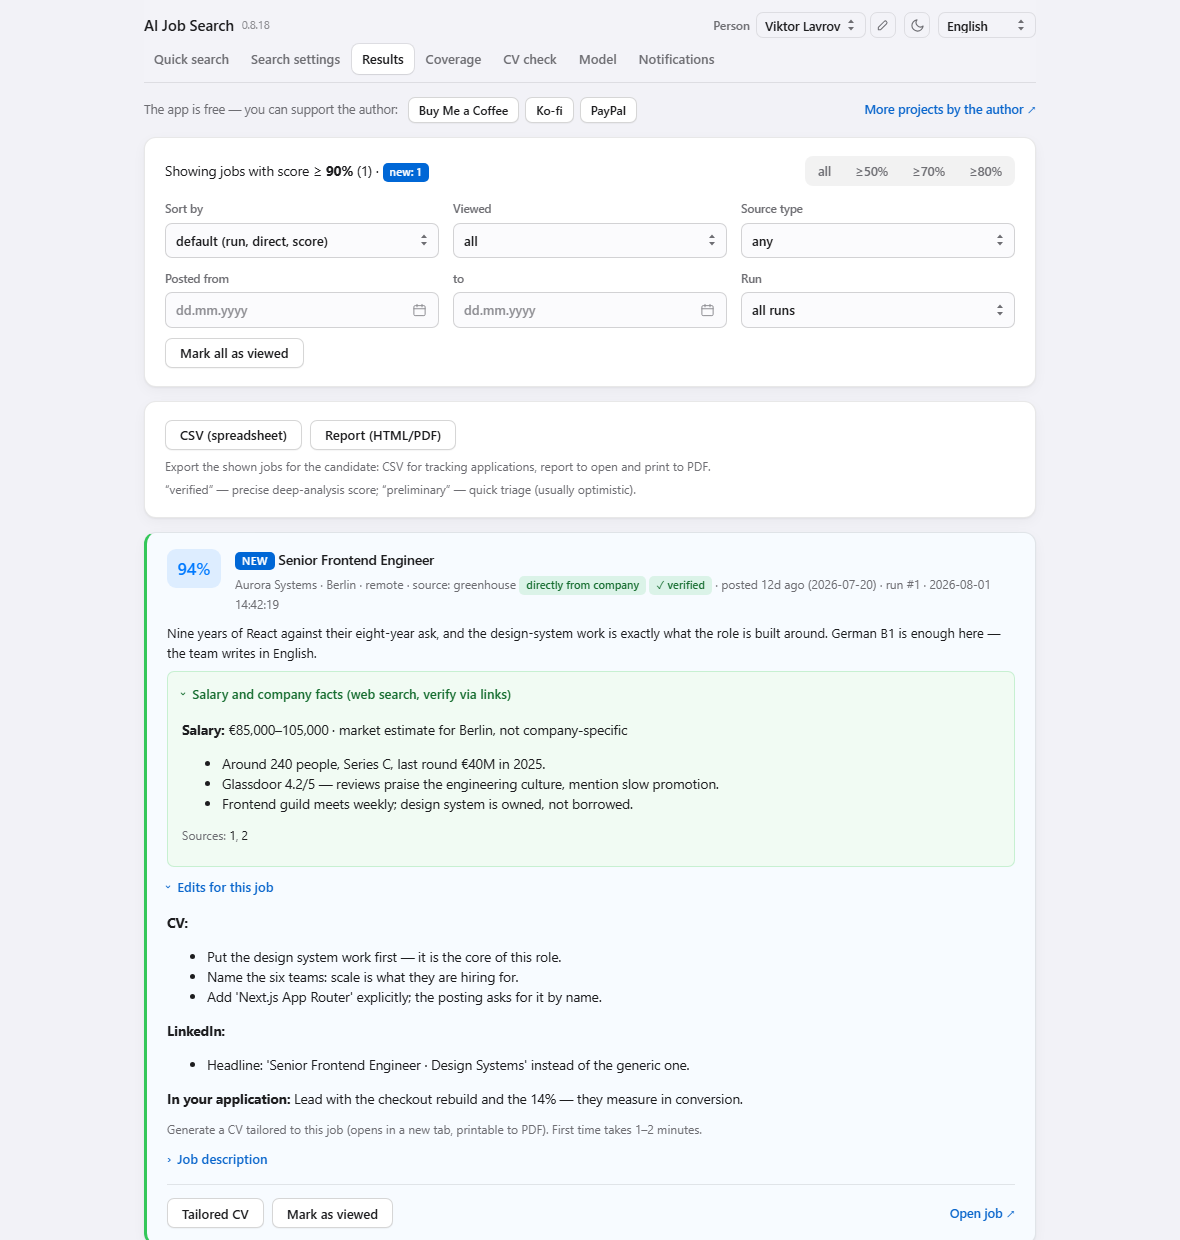
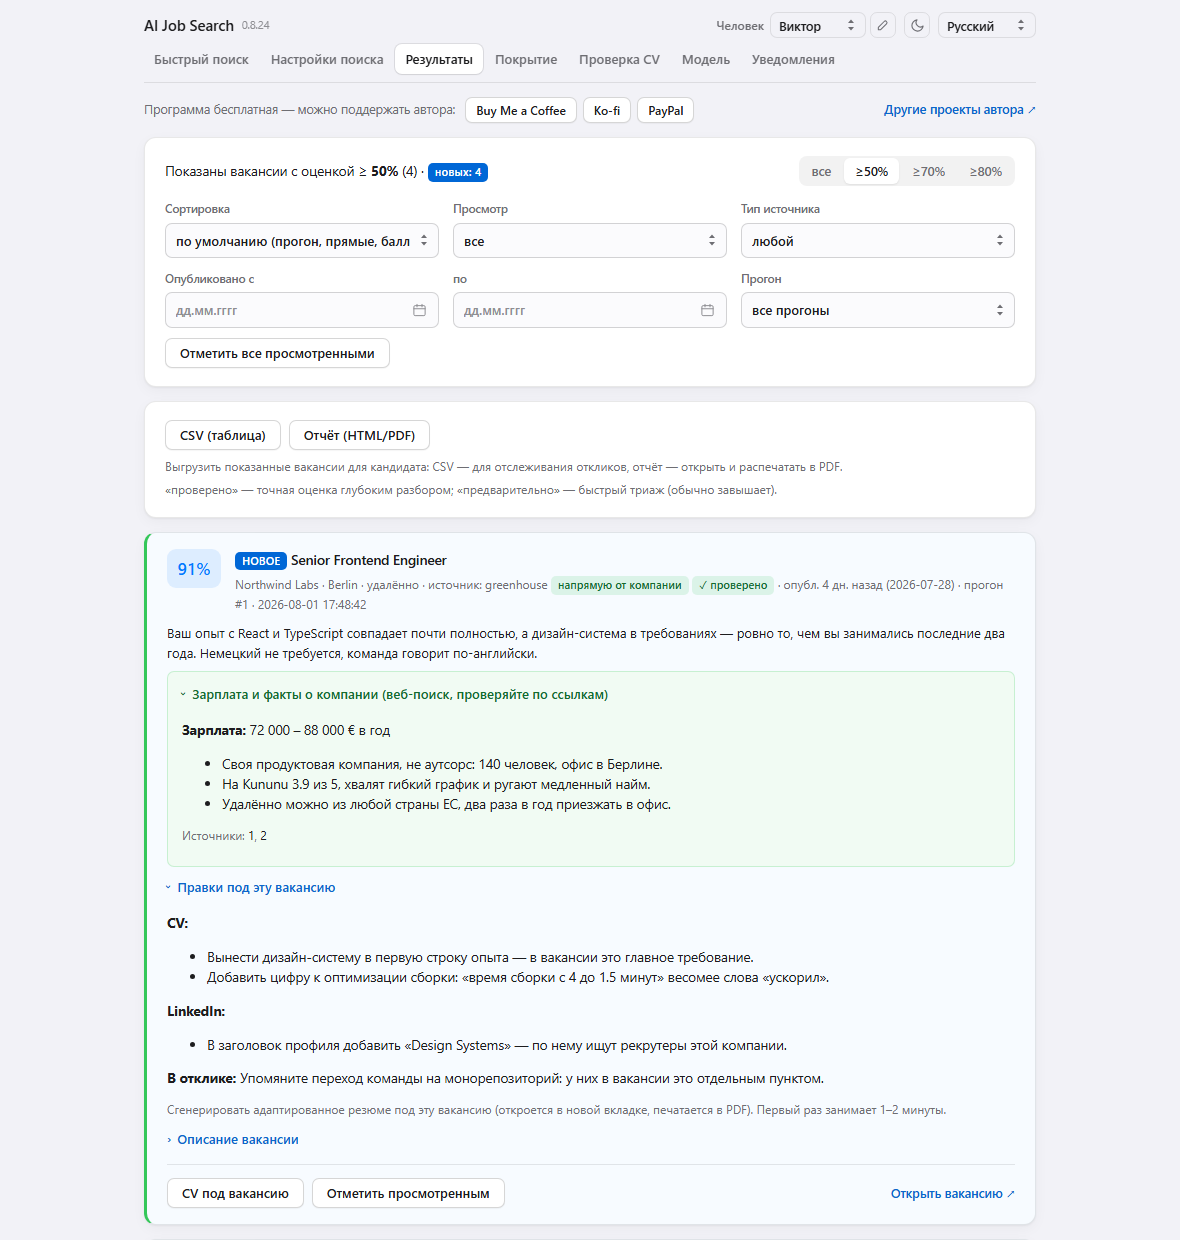
Снимки для сайта заново, и скрипт, чтобы они не устаревали молча
Картинки в docs/img показывали интерфейс, которого больше нет: три
провайдера вместо восьми, быстрый поиск без полей срока, старая шапка.
Обновлялись они последний раз три коммита назад, а онбординг с тех пор
менялся трижды — и заметить это можно было только глазами.

Отсюда tools/shots.py: поднимает программу на подставных данных во
временной папке и снимает четыре страницы в двух темах. Данные выдуманы
целиком — ни настоящих людей, ни компаний, ни вакансий, и настоящий
профиль он не трогает.

Три вещи, которые пришлось решать по дороге:

- Разбор вакансии раскрыт всегда, и на снимке списка он занимал весь
  экран: вместо списка выходила одна карточка. Список снимается в том
  состоянии, в каком программа бывает сразу после быстрого поиска —
  оценки есть, глубокий разбор ещё не прошёл. Разбор — своим снимком.
- Провайдеров восемь, в прежние 860 точек влезало шесть, третий ряд
  обрезался посередине.
- Без VERSION.txt программа зовёт себя «dev», и это стояло в шапке
  каждого снимка. Файл кладётся на время съёмки и убирается после.

В README подтянуты две устаревшие фразы: там было «Claude Code, Cursor
или Ollama» и «три карточки провайдеров».

diff --git a/tools/shots.py b/tools/shots.py
@@ -1,0 +1,271 @@
+"""Снимки для сайта и README.
+
+Скриншоты живут в docs/img и устаревают молча: интерфейс меняется, а на
+странице продукта остаётся прошлогодний. Отсюда скрипт — снять всё заново
+одной командой, а не собирать по одному руками и не забывать половину.
+
+Данные подставные и лежат во временной папке: настоящий профиль трогать нельзя,
+да и показывать чужие вакансии с чужим CV на странице продукта незачем. Каждая
+страница снимается дважды, в светлой теме и в тёмной.
+
+    python tools/shots.py
+
+Нужен Chrome или Edge — они и так есть на любой Windows. Пользуется их же
+безголовым режимом: ставить ради восьми картинок playwright с его полугигабайтом
+браузеров не стоит.
+"""
+import json
+import os
+import shutil
+import socket
+import subprocess
+import sys
+import tempfile
+import time
+import urllib.request
+from pathlib import Path
+
+ROOT = Path(__file__).resolve().parent.parent
+OUT = ROOT / "docs" / "img"
+sys.path.insert(0, str(ROOT))
+
+# Ширина как у прежних снимков: они уже вставлены в README и на страницу, и
+# менять её значило бы переверстать обе.
+WIDTH = 1180
+СТРАНИЦЫ = [
+    # (файл, адрес, высота, есть ли разбор у верхней вакансии)
+    #
+    # Разбор раскрыт всегда — <details open>, и правильно: ради него всё и
+    # затевалось. Но на снимке списка он занимает весь экран, и вместо списка
+    # выходит одна карточка. Поэтому список снимается в том состоянии, в каком
+    # программа бывает сразу после быстрого поиска: оценки есть, глубокий разбор
+    # ещё не прошёл. А разбор — своим снимком и повыше.
+    ("results", "/results", 1120, False),
+    ("advice", "/results", 1240, True),
+    ("quick-search", "/simple", 820, False),
+    # Провайдеров восемь, в 860 влезало шесть — третий ряд обрезался посередине.
+    ("models", "/models", 1330, False),
+]
+
+БРАУЗЕРЫ = [
+    r"C:\Program Files\Google\Chrome\Application\chrome.exe",
+    r"C:\Program Files (x86)\Microsoft\Edge\Application\msedge.exe",
+    r"C:\Program Files (x86)\Google\Chrome\Application\chrome.exe",
+]
+
+
+def браузер() -> str:
+    for path in БРАУЗЕРЫ:
+        if Path(path).exists():
+            return path
+    for name in ("google-chrome", "chromium", "msedge"):
+        found = shutil.which(name)
+        if found:
+            return found
+        raise SystemExit("не нашёлся ни Chrome, ни Edge — снимать нечем")
+
+
+def номер_версии() -> str:
+    """Последний выпущенный тег — то, что человек и увидит, скачав программу."""
+    try:
+        out = subprocess.run(["git", "tag", "--sort=-v:refname"], cwd=str(ROOT),
+                             capture_output=True, text=True, timeout=10)
+        for line in out.stdout.splitlines():
+            if line.startswith("v"):
+                return line[1:].strip()
+    except (OSError, subprocess.SubprocessError):
+        pass
+    return "0.0.0"
+
+
+def свободный_порт() -> int:
+    with socket.socket() as s:
+        s.bind(("127.0.0.1", 0))
+        return s.getsockname()[1]
+
+
+РАЗБОР = json.dumps({
+    "salary_estimate": "72 000 – 88 000 € в год",
+    "company_insights": [
+        "Своя продуктовая компания, не аутсорс: 140 человек, офис в Берлине.",
+        "На Kununu 3.9 из 5, хвалят гибкий график и ругают медленный найм.",
+        "Удалённо можно из любой страны ЕС, два раза в год приезжать в офис.",
+    ],
+    "sources": ["https://www.kununu.com/de/northwind",
+                "https://www.glassdoor.de/northwind"],
+    "cv_changes": [
+        "Вынести дизайн-систему в первую строку опыта — в вакансии это главное требование.",
+        "Добавить цифру к оптимизации сборки: «время сборки с 4 до 1.5 минут» весомее слова «ускорил».",
+    ],
+    "linkedin_changes": [
+        "В заголовок профиля добавить «Design Systems» — по нему ищут рекрутеры этой компании.",
+    ],
+    "cover_hint": "Упомяните переход команды на монорепозиторий: у них в вакансии это отдельным пунктом.",
+}, ensure_ascii=False)
+
+ВАКАНСИИ = [
+    dict(key="a1", title="Senior Frontend Engineer", company="Northwind Labs",
+         location="Berlin · удалённо", url="https://northwind.example/careers/fe-senior",
+         source="greenhouse", is_direct=1, is_agency=0, score=91, verified=1,
+         posted_at="2026-07-28",
+         description="React, TypeScript, дизайн-система, команда из шести человек.",
+         reason="Ваш опыт с React и TypeScript совпадает почти полностью, а дизайн-система "
+                "в требованиях — ровно то, чем вы занимались последние два года. "
+                "Немецкий не требуется, команда говорит по-английски.",
+         advice=""),
+    dict(key="a2", title="Staff Software Engineer, Platform", company="Helios",
+         location="Амстердам · гибрид", url="https://helios.example/jobs/staff-platform",
+         source="lever", is_direct=1, is_agency=0, score=84, verified=1,
+         posted_at="2026-07-26",
+         description="Kubernetes, Go, внутренние платформы для сорока команд.",
+         reason="Совпадает опыт с инфраструктурой и наставничеством. Go в требованиях, "
+                "а у вас он второй язык — это единственное слабое место.", advice=""),
+    dict(key="a3", title="Full-stack Developer (SAP Integration)", company="Vandelay AG",
+         location="Мюнхен · офис", url="https://vandelay.example/karriere/fullstack",
+         source="personio", is_direct=1, is_agency=0, score=76, verified=0,
+         posted_at="2026-07-24",
+         description="SAP PI/PO, Java, REST, интеграция с логистикой.",
+         reason="SAP PI/PO и Java у вас в ключевых навыках. Настораживает требование "
+                "немецкого на уровне B2 — в вашем CV указан A2.", advice=""),
+    dict(key="a4", title="Frontend Engineer", company="Kestrel Studio",
+         location="удалённо, ЕС", url="https://kestrel.example/careers/frontend",
+         source="workable", is_direct=1, is_agency=0, score=72, verified=0,
+         posted_at="2026-07-21",
+         description="Vue 3, Nuxt, небольшие продуктовые команды.",
+         reason="Стек соседний: Vue вместо React. Переучиваться недолго, но в вакансии "
+                "просят именно опыт с Nuxt, а его у вас нет.", advice=""),
+]
+
+CV = """Виктор Лаврентьев — Senior Frontend Engineer
+
+Восемь лет во фронтенде, последние два — дизайн-системы и сборка.
+React, TypeScript, Vite, Storybook. Вёл переход команды из двенадцати
+человек на монорепозиторий, время сборки с четырёх минут до полутора.
+
+Опыт
+2022–2026  Frontend Lead, Orbita — дизайн-система на 60 компонентов,
+           её используют четыре продуктовые команды.
+2019–2022  Senior Frontend Engineer, Meridian — личный кабинет, 300k
+           пользователей в месяц.
+2018–2019  Frontend Developer, Sable — вёрстка и интеграции.
+
+Языки: русский (родной), английский (C1), немецкий (A2).
+"""
+
+
+def заполнить(data: Path) -> None:
+    """Кладёт во временную папку то, что должно быть видно на снимках."""
+    os.environ["AIJS_DATA_DIR"] = str(data)
+    from jobsearch import appstate, config, db, profiles
+
+    # Заполняем профиль по умолчанию, а не заводим новый: сервер приходит без
+    # cookie и показывает именно его. Свежесозданный профиль на снимке был пуст,
+    # а рядом в переключателе стоял чужой — «Ничего с такой оценкой нет».
+    profiles.ensure_migrated()
+    slug = profiles.default_slug()
+    profiles.rename(slug, "Виктор")
+    profiles.set_active(slug)
+    db.init()
+
+    cfg = config.load()
+    cfg["profile"].update(summary="Senior Frontend Engineer, дизайн-системы и сборка",
+                          roles="Frontend Engineer, Frontend Lead",
+                          skills="React, TypeScript, Vite, Storybook, монорепозитории",
+                          seniority="senior", salary="от 75 000 € в год",
+                          work_format="remote", languages="английский C1, немецкий A2")
+    cfg["search"].update(locations="Германия, Нидерланды, удалённо в ЕС", threshold=70)
+    cfg["ui"]["lang"] = "ru"
+    config.save(cfg)
+    config.cv_text_path().write_text(CV, encoding="utf-8")
+    config.cv_meta_path().write_text(
+        json.dumps({"filename": "Лаврентьев CV.pdf", "chars": len(CV)}, ensure_ascii=False),
+        encoding="utf-8")
+
+    run = db.start_run()
+    for job in ВАКАНСИИ:
+        db.save_job(job, run)
+    db.finish_run(run, found=214, fresh=37, matched=len(ВАКАНСИИ), status="ok", log="")
+    appstate.mark_setup_done(cfg["llm"])
+    return slug
+
+
+def поднять(data: Path, port: int):
+    среда = dict(os.environ, AIJS_DATA_DIR=str(data), PYTHONIOENCODING="utf-8")
+    proc = subprocess.Popen(
+        [sys.executable, "-m", "uvicorn", "app:app", "--host", "127.0.0.1",
+         "--port", str(port), "--log-level", "warning"],
+        cwd=str(ROOT), env=среда)
+    for _ in range(60):
+        try:
+            urllib.request.urlopen(f"http://127.0.0.1:{port}/ping", timeout=1).read()
+            return proc
+        except Exception:
+            time.sleep(0.5)
+    proc.terminate()
+    raise SystemExit("приложение не поднялось")
+
+
+def снять(chrome: str, url: str, out: Path, height: int, профиль: Path) -> None:
+    subprocess.run([
+        chrome, "--headless=new", "--disable-gpu", "--hide-scrollbars",
+        f"--user-data-dir={профиль}",
+        f"--window-size={WIDTH},{height}",
+        # Страница дорисовывает себя скриптами; без паузы снимок ловит её
+        # наполовину собранной — с непроявленными карточками и пустой шапкой.
+        "--virtual-time-budget=4000",
+        f"--screenshot={out}", url,
+    ], check=True, capture_output=True)
+
+
+def разбор(есть: bool) -> None:
+    """Включает и убирает глубокий разбор у верхней вакансии.
+
+    Сервер открывает базу заново на каждый запрос, так что менять её отсюда
+    можно и на ходу.
+    """
+    from jobsearch import db
+    with db.conn() as c:
+        c.execute("UPDATE jobs SET advice=? WHERE key='a1'",
+                  (РАЗБОР if есть else "",))
+
+
+def тема(какая: str) -> None:
+    """Тему держит сервер, а не браузер: безголовый Chrome каждый раз приходит с
+    чистым профилем, и переключатель в окне ему не помог бы. Пишется в файл
+    состояния, который сервер перечитывает на каждой отрисовке."""
+    from jobsearch import appstate
+    appstate.set_theme(какая)
+
+
+def main() -> None:
+    chrome = браузер()
+    data = Path(tempfile.mkdtemp(prefix="aijs-shots-"))
+    профиль_браузера = Path(tempfile.mkdtemp(prefix="aijs-chrome-"))
+    print("данные:", data)
+    заполнить(data)
+    # Без этого файла программа зовёт себя «dev», и это видно в шапке на каждом
+    # снимке. На странице продукта такая подпись выглядит недоделкой.
+    версия = ROOT / "VERSION.txt"
+    было = версия.read_text(encoding="utf-8") if версия.exists() else None
+    версия.write_text(номер_версии(), encoding="utf-8")
+    port = свободный_порт()
+    proc = поднять(data, port)
+    try:
+        OUT.mkdir(parents=True, exist_ok=True)
+        for какая, суффикс in (("light", ""), ("dark", "-dark")):
+            тема(какая)
+            for имя, путь, height, с_разбором in СТРАНИЦЫ:
+                разбор(с_разбором)
+                url = f"http://127.0.0.1:{port}{путь}"
+                out = OUT / f"{имя}{суффикс}.png"
+                снять(chrome, url, out, height, профиль_браузера)
+                print(f"  {out.name}: {out.stat().st_size // 1024} КБ")
+    finally:
+        proc.terminate()
+        версия.write_text(было, encoding="utf-8") if было else версия.unlink(missing_ok=True)
+        shutil.rmtree(data, ignore_errors=True)
+        shutil.rmtree(профиль_браузера, ignore_errors=True)
+
+
+if __name__ == "__main__":
+    main()

diff --git a/README.md b/README.md
@@ -29,16 +29,18 @@ elsewhere and wait until they are needed.
 
 <picture>
   <source media="(prefers-color-scheme: dark)" srcset="docs/img/quick-search-dark.png">
-  <img src="docs/img/quick-search.png" alt="The quick search page: who we are searching for, where to search, the CV file and a 'Start search' button." width="900">
+  <img src="docs/img/quick-search.png" alt="The quick search page: who we are searching for, where to search, the CV file, an optional date range and a 'Start search' button." width="900">
 </picture>
 
 The thinking is done not by the program but by a model of your choice: Claude
-Code, Cursor CLI or a local one through Ollama. The program shows which of them
-are already installed and whether your machine has enough memory.
+Code, Cursor, Codex, GitHub Copilot, Goose or Qwen, a local one through Ollama,
+or any service that speaks the OpenAI protocol — OpenRouter, LM Studio, your own
+server. The program shows which of them are already installed, which can search
+the web, and whether your machine has enough memory for a local model.
 
 <picture>
   <source media="(prefers-color-scheme: dark)" srcset="docs/img/models-dark.png">
-  <img src="docs/img/models.png" alt="The model selection page: three provider cards with installation and web-search markers, and a line about the computer's memory." width="900">
+  <img src="docs/img/models.png" alt="The model selection page: eight provider cards with installation and web-search markers, and a line about the computer's memory." width="900">
 </picture>
 
 The screenshots were taken on an invented profile: the people, companies and
